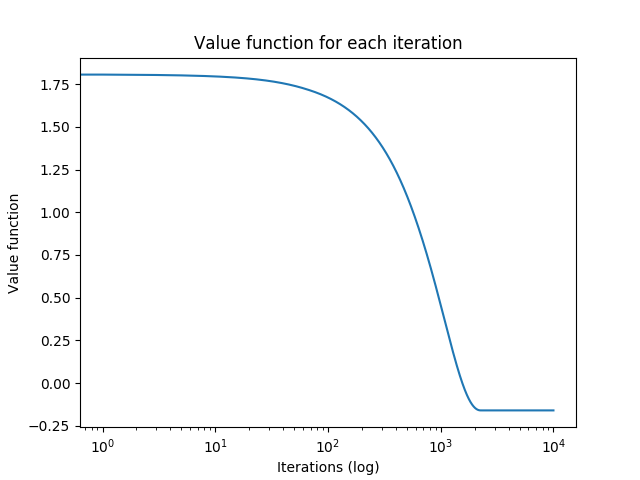
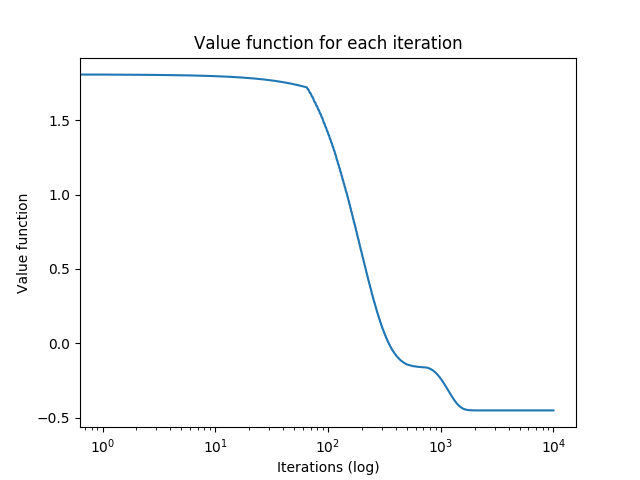
improving convergence of Hopfield (in process)

diff --git a/hmip/hopfield.py b/hmip/hopfield.py
@@ -6,9 +6,9 @@ import math
 # TODO(Mathilde): find another name fot L and H -> should be lower case
 def hopfield(H, q, lb, ub, binary_indicator,
              k_max=None, absorption_criterion=None, gamma=0.9, theta=0.1, ascent_stop_criterion=0.1,
-             precision_stopping_criterion=10 ^ -6,
+             precision_stopping_criterion=10 ** -6,
              x_0=None, beta=None, alpha=None,
-             step_type='classic', direction_type='binary',
+             step_type='classic', direction_type='soft_binary',
              activation_type='sin', initial_ascent_type='binary_neutral_ascent',
              stopping_criterion_type='gradient'):
     """
@@ -57,7 +57,7 @@ def hopfield(H, q, lb, ub, binary_indicator,
     H = utils.make_symmetric(H)
 
     # Assess convexity of matrix H
-    convexity = utils.assess_convexity_of_objective(H)
+    # convexity = utils.assess_convexity_of_objective(H)
 
     # check if absorption value is strictly larger than ascent stop
     ascent_stop_criterion = utils.adapt_ascent_stop_criterion(ascent_stop_criterion, absorption_criterion)
@@ -78,20 +78,25 @@ def hopfield(H, q, lb, ub, binary_indicator,
 
     while not stopping_criterion_met(x[:, k], lb, ub, beta, activation_type, grad_f, k, k_max, stopping_criterion_type,
                                      precision_stopping_criterion):
+
+        # Assess convergence indicator for binary constrained components
+        convergence_to_binary = np.linalg.norm(
+            np.multiply(proxy_distance_vector(x[:, k], lb, ub, beta, activation_type), binary_indicator))
+
         # gradient
         grad_f = np.dot(H, x[:, k]) + q
 
         # Make sure initial point is not stuck at gradient=0 at the initial point
         if k is 0 and np.linalg.norm(grad_f) == 0:
-            grad_f = (smoothness_coef/10)*(np.random.rand(n)-0.5)
-            print(grad_f)
+            grad_f = (smoothness_coef / 10) * (np.random.rand(n) - 0.5)
 
         # direction
         direction = find_direction(x[:, k], grad_f, lb, ub, binary_indicator, beta, direction_type,
                                    absorption_criterion, gamma,
-                                   theta, activation_type)
+                                   theta, activation_type, convergence_to_binary)
         # update hidden values
         # TODO(Mathilde): remove the for loop (more efficient matrix product)
+
         if step_type == 'armijo':
             alpha = np.divide(np.linalg.norm(grad_f), smoothness_coef)
             f_val_hist[k + 1] = f_val_hist[k] + 1
@@ -163,7 +168,7 @@ def initial_state(H, q, lb, ub, binary_indicator, k_max, smoothness_coeff, x_0,
     if initial_ascent_type is 'ascent':
         k = 0
         while k < k_max and utils.is_in_box(x_0, ub - ascent_stop_criterion, lb + ascent_stop_criterion) \
-                and np.linalg.norm(grad_f) > 10 ^ -6:
+                and np.linalg.norm(grad_f) > (10 ** -6) * (1 / n):
             grad_f = np.dot(H, x_0) + q
             # Make sure initial point is not stuck at gradient=0 at the initial point
             if k is 0 and np.linalg.norm(grad_f) == 0:
@@ -177,7 +182,7 @@ def initial_state(H, q, lb, ub, binary_indicator, k_max, smoothness_coeff, x_0,
     elif initial_ascent_type is 'binary_neutral_ascent':
         k = 0
         while k < k_max and utils.is_in_box(x_0, ub - ascent_stop_criterion, lb + ascent_stop_criterion) \
-                and np.linalg.norm(grad_f) > 10 ^ -6:
+                and np.linalg.norm(grad_f) > (10 ** -6) * (1 / n):
             grad_f = np.dot(H, x_0) + q
             # Make sure initial point is not stuck at gradient=0 at the initial point
             if k is 0 and np.linalg.norm(grad_f) == 0:
@@ -191,7 +196,7 @@ def initial_state(H, q, lb, ub, binary_indicator, k_max, smoothness_coeff, x_0,
 
 
 def find_direction(x, grad_f, lb, ub, binary_indicator, beta, direction_type, absorption_criterion, gamma, theta,
-                   activation_type):
+                   activation_type, convergence_to_binary):
     """
 
     :param x:
@@ -210,8 +215,9 @@ def find_direction(x, grad_f, lb, ub, binary_indicator, beta, direction_type, ab
     n = np.size(x)
     binary_absorption_mask = compute_binary_absorption_mask(x, lb, ub, binary_indicator)
 
+
     # classic gradient
-    if direction_type is 'classic' or direction_type is 'stochastic':
+    if direction_type is 'classic' or direction_type is 'stochastic' or convergence_to_binary < (1/n)*(10 ** -6):
         if not absorption_criterion:
             direction = - grad_f
         else:
@@ -223,7 +229,7 @@ def find_direction(x, grad_f, lb, ub, binary_indicator, beta, direction_type, ab
 
     # binary gradient related direction methods
     # TODO(Mathilde): check with paper + Bertrand - change name of variables
-    elif direction_type is 'binary' or direction_type is 'soft_binary':
+    elif (direction_type is 'binary' or direction_type is 'soft_binary') and convergence_to_binary >= (1/n)*(10 ** -6):
         if direction_type is 'soft_binary':
             b = np.multiply(activation(x, lb, ub, beta, activation_type=activation_type) + 1 / 2 * (lb - ub),
                             binary_indicator)
@@ -257,7 +263,6 @@ def find_direction(x, grad_f, lb, ub, binary_indicator, beta, direction_type, ab
     direction = utils.normalize_array(direction)
 
     return direction
-
 
 
 # TODO(Mathilde): remove the integers without justification
@@ -337,15 +342,15 @@ def inverse_activation(x, lb, ub, beta, activation_type):
     """
     z = np.divide((x - lb), (ub - lb))
     if activation_type is 'pwl':
-        return lb+np.multiply(ub-lb, utils.inverse_activation_pwl(z, beta))
+        return lb + np.multiply(ub - lb, utils.inverse_activation_pwl(z, beta))
     if activation_type is 'exp':
-        return lb+np.multiply(ub-lb, utils.inverse_activation_exp(z, beta))
+        return lb + np.multiply(ub - lb, utils.inverse_activation_exp(z, beta))
     if activation_type is 'sin':
-        return lb+np.multiply(ub-lb, utils.inverse_activation_sin(z, beta))
+        return lb + np.multiply(ub - lb, utils.inverse_activation_sin(z, beta))
     if activation_type is 'identity':
-        return lb+np.multiply(ub-lb, utils.inverse_activation_pwl(z, beta))
+        return lb + np.multiply(ub - lb, utils.inverse_activation_pwl(z, beta))
     if activation_type is 'tanh':
-        return lb+np.multiply(ub-lb, utils.inverse_activation_tanh(z, beta))
+        return lb + np.multiply(ub - lb, utils.inverse_activation_tanh(z, beta))
 
 
 def proxy_distance_vector(x, lb, ub, beta, activation_type):

diff --git a/visualizations/utils_visuals.py b/visualizations/utils_visuals.py
@@ -12,8 +12,8 @@ def plot_evolution_objective_function_2d(H, q, x, lb, ub, k_max, figure_path):
     :param figure_path: (string) path where to solve the function
     :return: plot a function and save it in the path
     """
-    x_1 = np.linspace(-0.1+lb[0], ub[0]+0.1, num=500).reshape((1, -1))
-    x_2 = np.linspace(-0.1+lb[1], ub[1]+0.1, num=500).reshape((1, -1))
+    x_1 = np.linspace(-0.1 + lb[0], ub[0] + 0.1, num=500).reshape((1, -1))
+    x_2 = np.linspace(-0.1 + lb[1], ub[1] + 0.1, num=500).reshape((1, -1))
     x_meshgrid_1, x_meshgrid_2 = np.meshgrid(x_1, x_2)
 
     objective = objective_function_2d(x_meshgrid_1, x_meshgrid_2, H, q)
@@ -21,8 +21,8 @@ def plot_evolution_objective_function_2d(H, q, x, lb, ub, k_max, figure_path):
     plt.contourf(x_meshgrid_1, x_meshgrid_2, objective, 50, cmap='plasma')
     plt.colorbar()
     plt.plot(x[0, :], x[1, :], 'black')
-    plt.plot(x[0, 0], x[1, 0],  'bo', markersize=6, color='white')
-    plt.plot(x[0, k_max-1], x[1, k_max-1], 'x',  markersize=10, color='white')
+    plt.plot(x[0, 0], x[1, 0], 'bo', markersize=6, color='white')
+    plt.plot(x[0, k_max - 1], x[1, k_max - 1], 'x', markersize=10, color='white')
     plt.xlabel('x1')
     plt.ylabel('x2')
     plt.savefig('plots/' + figure_path)
@@ -47,6 +47,17 @@ def plot_value_function(f_val_hist, figure_path):
     plt.title('Value function for each iteration')
     plt.xlabel('Iterations (log)')
     plt.ylabel('Value function')
+    plt.savefig('plots/' + figure_path)
+    plt.grid()
+    plt.show()
+
+
+def plot_step_size(step_size, figure_path):
+    plt.plot(step_size)
+    plt.xscale('log')
+    plt.title('Step size value at each iteration')
+    plt.xlabel('Iterations')
+    plt.ylabel('Step size')
     plt.savefig('plots/' + figure_path)
     plt.grid()
     plt.show()

diff --git a/visualizations/example_visualization.py b/visualizations/example_visualization.py
@@ -16,3 +16,5 @@ x, x_h, f_val_hist, step_size = hop.hopfield(H, q, lb, ub, binary_indicator, k_m
 visuals.plot_evolution_objective_function_2d(H, q, x, lb, ub, k_max, 'objective_function_2d.png')
 
 visuals.plot_value_function(f_val_hist, 'value_function.png')
+
+visuals.plot_step_size(step_size,  'step_size.png')
